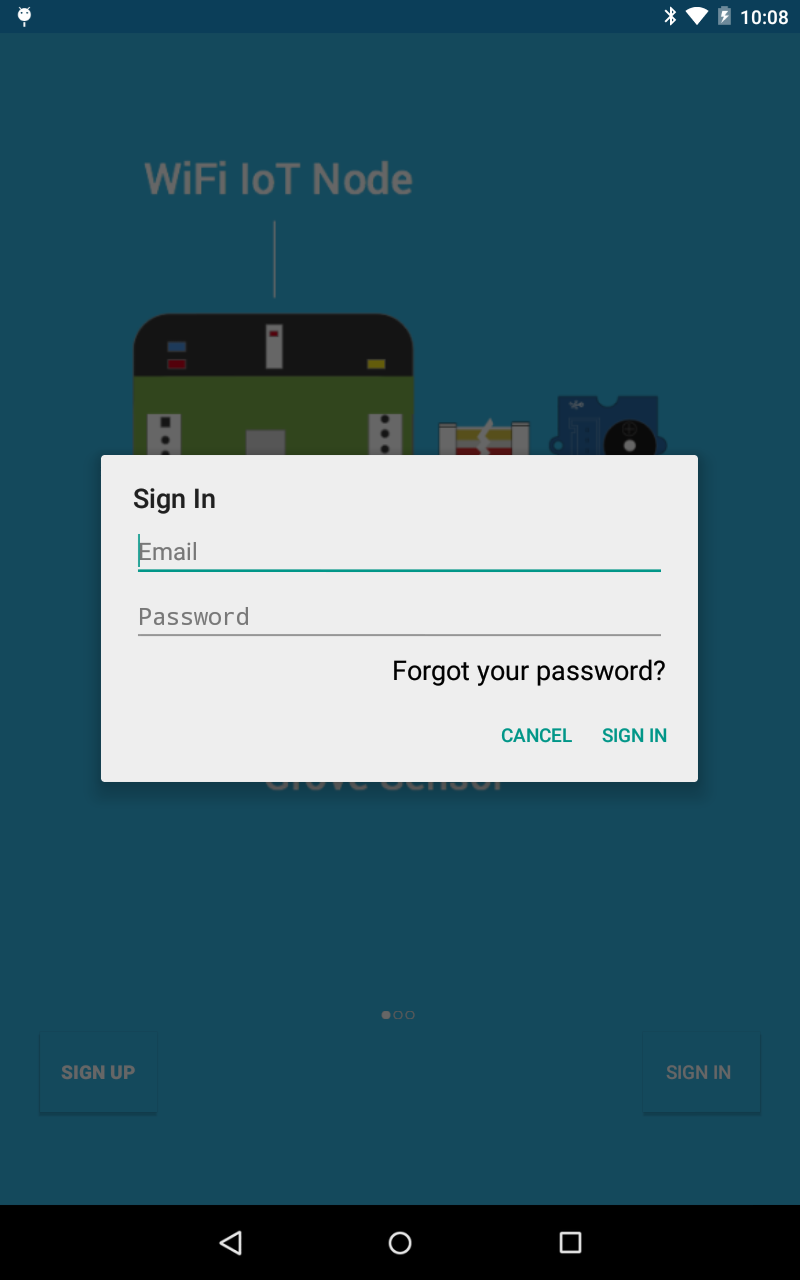
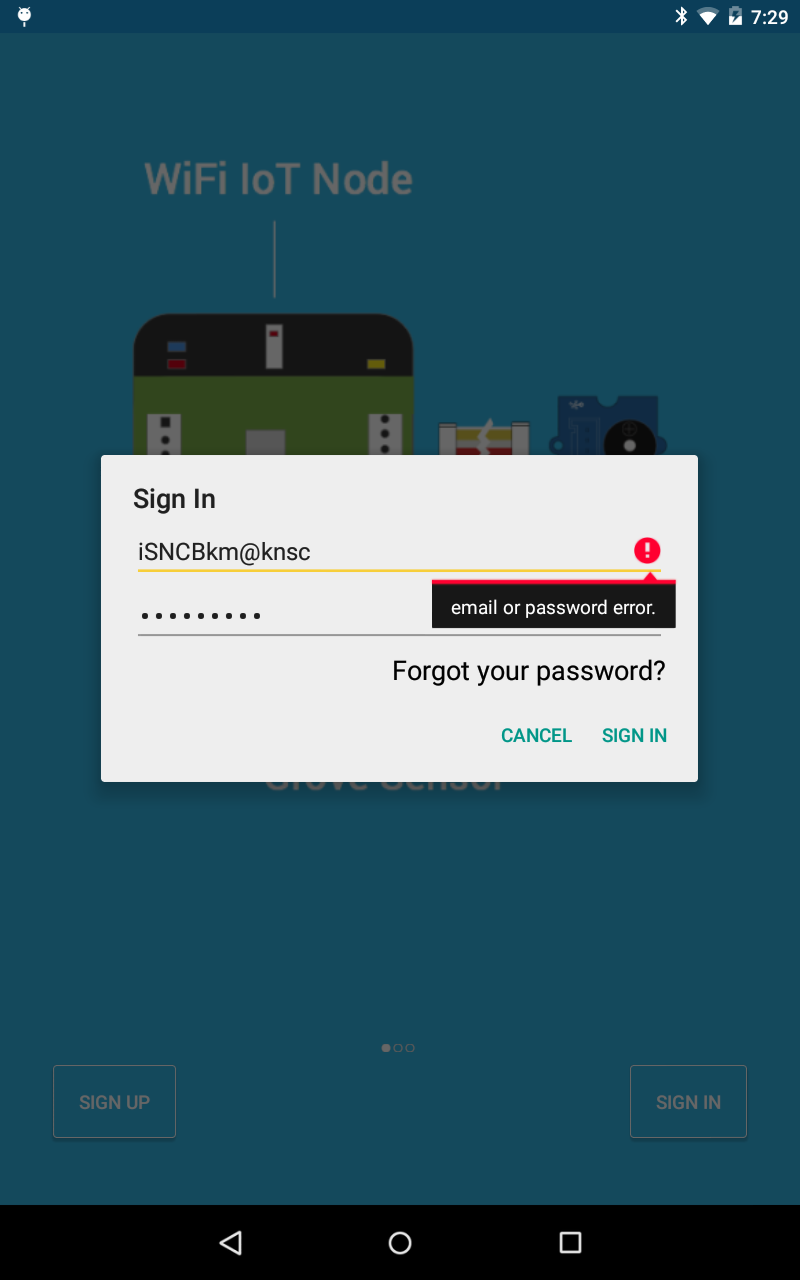
sign in work

diff --git a/android/app/src/main/java/cc/seeed/iot/ui_setup/SignInDialogFragment.java b/android/app/src/main/java/cc/seeed/iot/ui_setup/SignInDialogFragment.java
@@ -8,7 +8,6 @@ import android.app.AlertDialog;
 import android.app.Dialog;
 import android.app.DialogFragment;
 import android.content.Context;
-import android.content.DialogInterface;
 import android.os.Build;
 import android.os.Bundle;
 import android.text.TextUtils;
@@ -18,14 +17,22 @@ import android.view.View;
 import android.widget.AutoCompleteTextView;
 import android.widget.Button;
 import android.widget.EditText;
+import android.widget.Toast;
 
 import cc.seeed.iot.R;
+import cc.seeed.iot.webapi.IotApi;
+import cc.seeed.iot.webapi.IotService;
+import cc.seeed.iot.webapi.model.UserResponse;
+import retrofit.Callback;
+import retrofit.RetrofitError;
 
 /**
  * Created by tenwong on 15/7/1.
  */
 public class SignInDialogFragment extends DialogFragment {
     Context context;
+    AlertDialog alertDialog;
+
     private AutoCompleteTextView mEmailView;
     private EditText mPasswordView;
 
@@ -60,9 +67,9 @@ public class SignInDialogFragment extends DialogFragment {
     @Override
     public void onStart() {
         super.onStart();    //super.onStart() is where dialog.show() is actually called on the underlying dialog, so we have to do it after this point
-        final AlertDialog d = (AlertDialog) getDialog();
-        if (d != null) {
-            Button positiveButton = (Button) d.getButton(Dialog.BUTTON_POSITIVE);
+        alertDialog = (AlertDialog) getDialog();
+        if (alertDialog != null) {
+            Button positiveButton = (Button) alertDialog.getButton(Dialog.BUTTON_POSITIVE);
             positiveButton.setOnClickListener(new View.OnClickListener() {
                 @Override
                 public void onClick(View v) {
@@ -70,7 +77,7 @@ public class SignInDialogFragment extends DialogFragment {
                     //Do stuff, possibly set wantToCloseDialog to true then...
                     attemptLogin();
                     if (wantToCloseDialog)
-                        d.dismiss();
+                        alertDialog.dismiss();
                     //else dialog stays open. Make sure you have an obvious way to close the dialog especially if you set cancellable to false.
                 }
             });
@@ -109,6 +116,27 @@ public class SignInDialogFragment extends DialogFragment {
             focusView.requestFocus();
         } else {
             showProgress(true);
+            IotApi api = new IotApi();
+            IotService iot = api.getService();
+            iot.userLogin(email, password, new Callback<UserResponse>() {
+                @Override
+                public void success(UserResponse userResponse, retrofit.client.Response response) {
+                    String status = userResponse.status;
+                    if (status.equals("200")) {
+                        Toast.makeText(context, userResponse.msg, Toast.LENGTH_LONG).show();
+                        alertDialog.dismiss();
+                    } else {
+                        showProgress(false);
+                        mEmailView.setError("email or password error.");
+                        mEmailView.requestFocus();
+                    }
+                }
+
+                @Override
+                public void failure(RetrofitError error) {
+                    Toast.makeText(context, "连接服务器失败", Toast.LENGTH_LONG).show();
+                }
+            });
         }
     }
 
